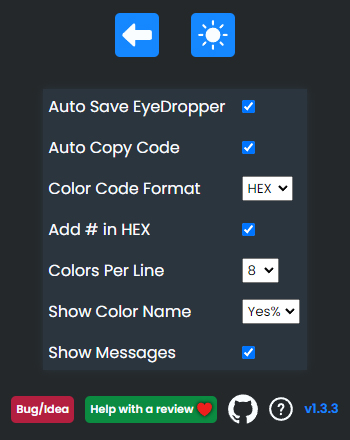
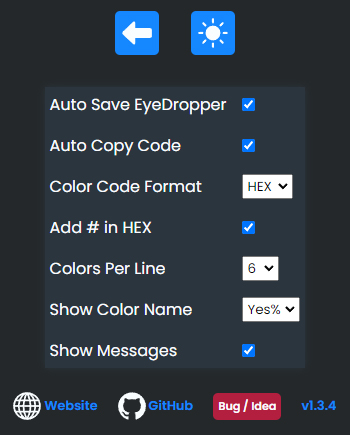
v1.3.4 improvements

diff --git a/script.ts b/script.ts
@@ -112,8 +112,6 @@ const showMessagesOption = document.querySelector(
   "#show-messages-option"
 ) as HTMLInputElement;
 
-const latestVersion = "1.3.4";
-
 // localStorage keys
 const storage = {
   version: "colorpal-version",
@@ -132,77 +130,72 @@ const storage = {
   reviewBannerClosed: "colorpal-review-banner-closed",
 };
 
+const latestVersion = "1.3.4";
+
+var savedColorsArray: string[];
+
 var colorsNames: {
   name: string;
   rgb: ColorRGB;
 }[];
-
-var messageTimeout = 0,
-  hideAnimationsTimeout = 0;
 
 var movingColor = false,
   selectingTintsShades = false,
   renderedTintsShades = false,
   deletingColor = false;
 
-latestVersion !== localStorage.getItem(storage.version) && newVersion();
+var messageTimeout = 0,
+  hideAnimationsTimeout = 0;
 
-// validate json and remove non 6 digit #hex color code
-const savedColorsArray = validateJson(storage.savedColorsArray, "[]").filter(
-  (color: string) => color.match(/^#[\dabcdef]{6}$/i)
-);
-
-// update localStorage saved colors array in case any removed invalid hex code
-localStorage.setItem(
-  storage.savedColorsArray,
-  JSON.stringify(savedColorsArray)
-);
-
-// fetch colors names array and set selected color name
-fetch("/data/colorsNames.json")
-  .then((res) => res.json())
-  .then((data) => {
-    colorsNames = data;
-
-    setColorName(localStorage.getItem(storage.selectedColor));
-  });
-
-document.querySelector("#version").textContent = `v${latestVersion}`;
-
-// opera disable eyedropper and hide feedback button and review banner
-navigator.userAgent.indexOf("OP") > -1 && disableOpera();
-
+initialize();
 validateStorage();
 setPage("colors");
 
-function validateJson(storageKey: string, fallbackValue: string): string[] {
-  localStorage.getItem(storageKey) ??
-    localStorage.setItem(storageKey, fallbackValue);
+function initialize(): void {
+  // validate json and remove non 6 digit #hex color code
+  savedColorsArray = validateJson(storage.savedColorsArray, "[]").filter(
+    (color: string) => color.match(/^#[\dabcdef]{6}$/i)
+  );
 
-  try {
-    return JSON.parse(localStorage.getItem(storageKey));
-  } catch {
-    localStorage.setItem(storageKey, fallbackValue);
-    return JSON.parse(localStorage.getItem(storageKey));
+  // update localStorage saved colors array in case any removed invalid hex code
+  localStorage.setItem(
+    storage.savedColorsArray,
+    JSON.stringify(savedColorsArray)
+  );
+
+  // fetch colors names array and set selected color name
+  fetch("/data/colorsNames.json")
+    .then((res) => res.json())
+    .then((data) => {
+      colorsNames = data;
+
+      setColorName(localStorage.getItem(storage.selectedColor));
+    });
+
+  latestVersion !== localStorage.getItem(storage.version) && newVersion();
+  document.querySelector("#version").textContent = `v${latestVersion}`;
+
+  function validateJson(storageKey: string, fallbackValue: string): string[] {
+    localStorage.getItem(storageKey) ??
+      localStorage.setItem(storageKey, fallbackValue);
+
+    try {
+      return JSON.parse(localStorage.getItem(storageKey));
+    } catch {
+      localStorage.setItem(storageKey, fallbackValue);
+      return JSON.parse(localStorage.getItem(storageKey));
+    }
+  }
+
+  function newVersion(): void {
+    localStorage.setItem(storage.version, latestVersion);
+
+    // reset review banner
+    localStorage.setItem(storage.reviewBannerClosed, "false");
+    localStorage.setItem(storage.openedCount, "0");
   }
 }
 
-function newVersion(): void {
-  localStorage.setItem(storage.version, latestVersion);
-
-  // reset review banner
-  localStorage.setItem(storage.reviewBannerClosed, "false");
-  localStorage.setItem(storage.openedCount, "0");
-}
-
-function disableOpera(): void {
-  eyeDropperButton.classList.add("disable");
-
-  document.querySelector(".feedback").classList.add("hide");
-  reviewBanner.classList.add("hide");
-}
-
-// validate localStorage values
 function validateStorage(): void {
   let localStorageTheme = localStorage.getItem(storage.theme);
 
@@ -249,6 +242,7 @@ function validateStorage(): void {
   validateTrueOrFalse(storage.showMessages, "true");
 
   validateTrueOrFalse(storage.collapsedColorTools, "false");
+
   setCollapsedColorTools(
     JSON.parse(localStorage.getItem(storage.collapsedColorTools))
   );
@@ -289,12 +283,21 @@ function validateStorage(): void {
     localStorage.getItem(storage.showMessages)
   );
 
+  // opera browser, disable eyedropper, hide feedback button and disable review banner
+  navigator.userAgent.indexOf("OP") > -1 && disableOpera();
+
   function validateTrueOrFalse(storageKey: string, defaultValue: string): void {
     if (
       localStorage.getItem(storageKey) !== "true" &&
       localStorage.getItem(storageKey) !== "false"
     )
       localStorage.setItem(storageKey, defaultValue);
+  }
+
+  function disableOpera(): void {
+    eyeDropperButton.classList.add("disable");
+    document.querySelector(".feedback").classList.add("hide");
+    localStorage.setItem(storage.reviewBannerClosed, "true");
   }
 }
 
@@ -443,16 +446,14 @@ function setPage(page: string): void {
     selectedColorRect.classList.remove("hide");
     codesNameMessages.classList.remove("hide");
 
-    // review banner
+    // show review banner if not clicked, opened > 20
     if (
       !JSON.parse(localStorage.getItem(storage.reviewBannerClosed)) &&
-      Number(localStorage.getItem(storage.openedCount)) > 25
+      Number(localStorage.getItem(storage.openedCount)) > 20
     ) {
       setTimeout(function () {
         reviewBanner.classList.remove("hide");
       }, 5000);
-    } else {
-      reviewBanner.classList.add("hide");
     }
 
     clearTimeout(hideAnimationsTimeout);
@@ -1298,10 +1299,9 @@ showMessagesOption.addEventListener("change", function () {
 
 reviewBanner.addEventListener("click", function () {
   localStorage.setItem(storage.reviewBannerClosed, "true");
+  reviewBanner.classList.add("hide");
 
   window.open(
     "https://chrome.google.com/webstore/detail/mbnpegpimodgjmlbfhkkdgbcfjmgpoad/reviews"
   );
-
-  reviewBanner.classList.add("hide");
 });

diff --git a/utils/color-converters.ts b/utils/color-converters.ts
@@ -2,6 +2,7 @@ function hexToRgb(hex: string, returnString: boolean): string | ColorRGB {
   let result = /^#?([a-f\d]{2})([a-f\d]{2})([a-f\d]{2})$/i.exec(
     hex
   ) as RegExpExecArray;
+
   let r = parseInt(result[1], 16);
   let g = parseInt(result[2], 16);
   let b = parseInt(result[3], 16);
@@ -14,8 +15,10 @@ function rgbToHsl(rbg: ColorRGB): string {
   let r = rbg.r / 255;
   let g = rbg.g / 255;
   let b = rbg.b / 255;
+
   let max = Math.max(r, g, b),
     min = Math.min(r, g, b);
+
   let h,
     s,
     l = (max + min) / 2;
@@ -63,6 +66,7 @@ function rgbToHsv(rbg: ColorRGB): string {
   rabs = rbg.r / 255;
   gabs = rbg.g / 255;
   babs = rbg.b / 255;
+
   (v = Math.max(rabs, gabs, babs)), (diff = v - Math.min(rabs, gabs, babs));
   diffc = (c: number) => (v - c) / 6 / diff + 1 / 2;
   percentRoundFn = (num: number) => Math.round(num * 100) / 100;
@@ -96,15 +100,14 @@ function rgbToHsv(rbg: ColorRGB): string {
 }
 
 function hexToHsl(hex: string): ColorHSL {
-  let result = /^#?([a-f\d]{2})([a-f\d]{2})([a-f\d]{2})$/i.exec(hex);
+  let r: number, g: number, b: number;
+  let rgb = hexToRgb(hex, false) as ColorRGB;
 
-  let r = parseInt(result[1], 16);
-  let g = parseInt(result[2], 16);
-  let b = parseInt(result[3], 16);
+  (r = rgb.r / 255), (g = rgb.g / 255), (b = rgb.b / 255);
 
-  (r /= 255), (g /= 255), (b /= 255);
   let max = Math.max(r, g, b),
     min = Math.min(r, g, b);
+
   let h,
     s,
     l = (max + min) / 2;
@@ -142,6 +145,7 @@ function hslToHex(h: number, s: number, l: number): string {
   h /= 360;
   s /= 100;
   l /= 100;
+
   let r, g, b;
 
   if (s === 0) {

diff --git a/style.css b/style.css
@@ -250,7 +250,7 @@ select {
   height: 28px;
   width: 28px;
   filter: var(--theme-filter);
-  transition: 0.1s ease;
+  transition: 0.3s ease;
 }
 
 .codes-name-messages {
@@ -399,7 +399,7 @@ select {
 
 .saved-colors-tools {
   display: flex;
-  gap: 25px;
+  gap: 27px;
   margin-top: -14px;
   margin-bottom: -24px;
   margin-left: 40px;
@@ -494,18 +494,17 @@ select {
   align-items: center;
   cursor: pointer;
   padding: 2px;
-  gap: 2rem;
+  gap: 20px;
   font-size: 15px;
-  font-weight: 700;
-  white-space: pre;
+  font-weight: 800;
   color: white;
   background-color: #610596;
   animation: bannerScale 0.4s ease-out forwards;
+  transition: 0.3s ease;
 }
 
 .review-banner:hover {
   background-color: #910fdd;
-  transition: 0.1s;
 }
 
 .review-banner.hide {
@@ -514,12 +513,23 @@ select {
 
 .review-banner p {
   display: flex;
+  transition: 0.3s ease;
+}
+
+.review-banner:hover p {
+  font-size: 16px;
 }
 
 .review-banner img {
-  scale: 0.8;
+  margin-left: 3px;
+  scale: 0.7;
   filter: invert(15%) sepia(84%) saturate(7450%) hue-rotate(2deg)
     brightness(116%) contrast(118%) drop-shadow(0 0 2px black);
+  transition: 0.3s ease;
+}
+
+.review-banner:hover img {
+  scale: 0.75;
 }
 
 @keyframes bannerScale {

diff --git a/README.md b/README.md
@@ -1,9 +1,7 @@
 <div align="center">
   <a href="https://chrome.google.com/webstore/detail/mbnpegpimodgjmlbfhkkdgbcfjmgpoad" target="_blank"><img alt="Logo" src="https://raw.githubusercontent.com/nikosdaridis/colorpal/main/icons/logo128.png" width="100" /></a>
 </div>
-<h1 align="center">
-  ColorPal
-</h1>
+<h1 align="center">ColorPal - Advanced color tools</h1>
 <p align="center">
   A color tool to extract any pixel from the screen, pick any color from a palette and save favorite colors. <a href="https://chrome.google.com/webstore/detail/mbnpegpimodgjmlbfhkkdgbcfjmgpoad" target="_blank"><br>
   Add</a> the extension to Chrome and Edge. Built with <a href="https://www.typescriptlang.org" target="_blank">TypeScript</a>, <a href="https://developer.mozilla.org/en-US/docs/Web/HTML" target="_blank">HTML</a> and <a href="https://developer.mozilla.org/en-US/docs/Web/CSS" target="_blank">CSS</a>
